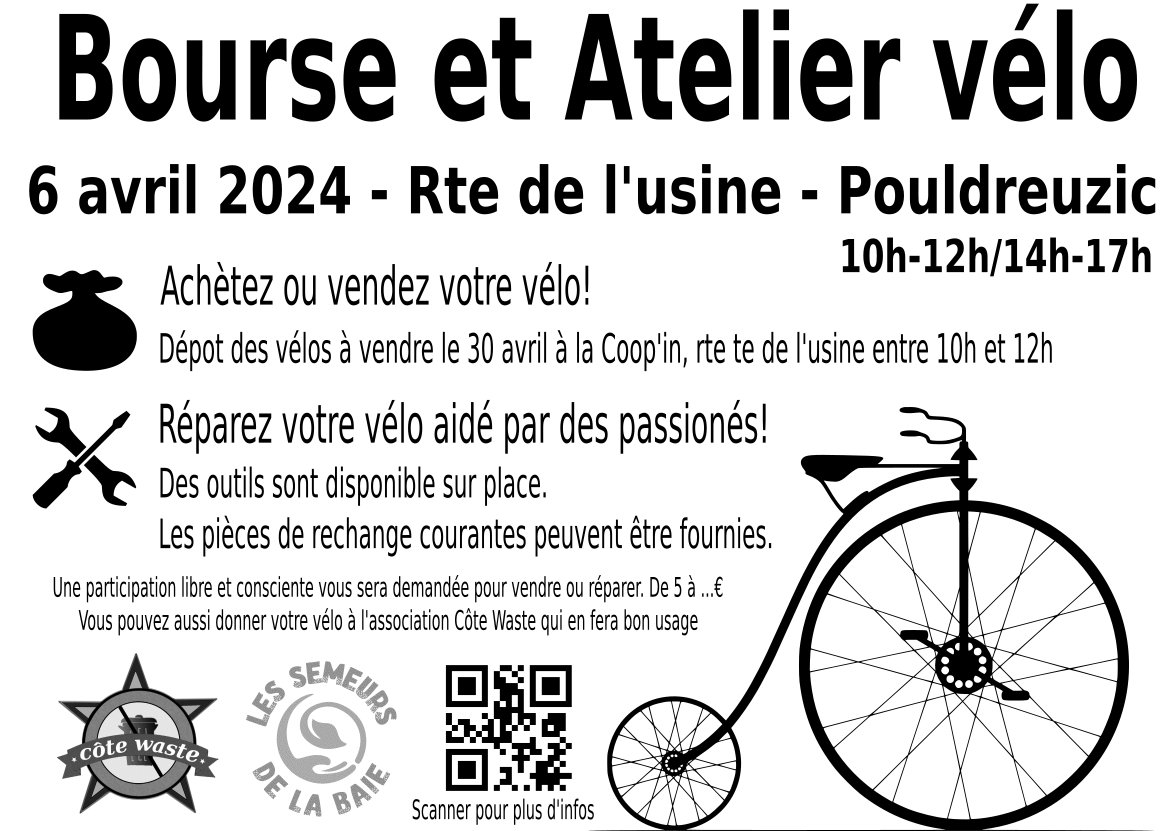
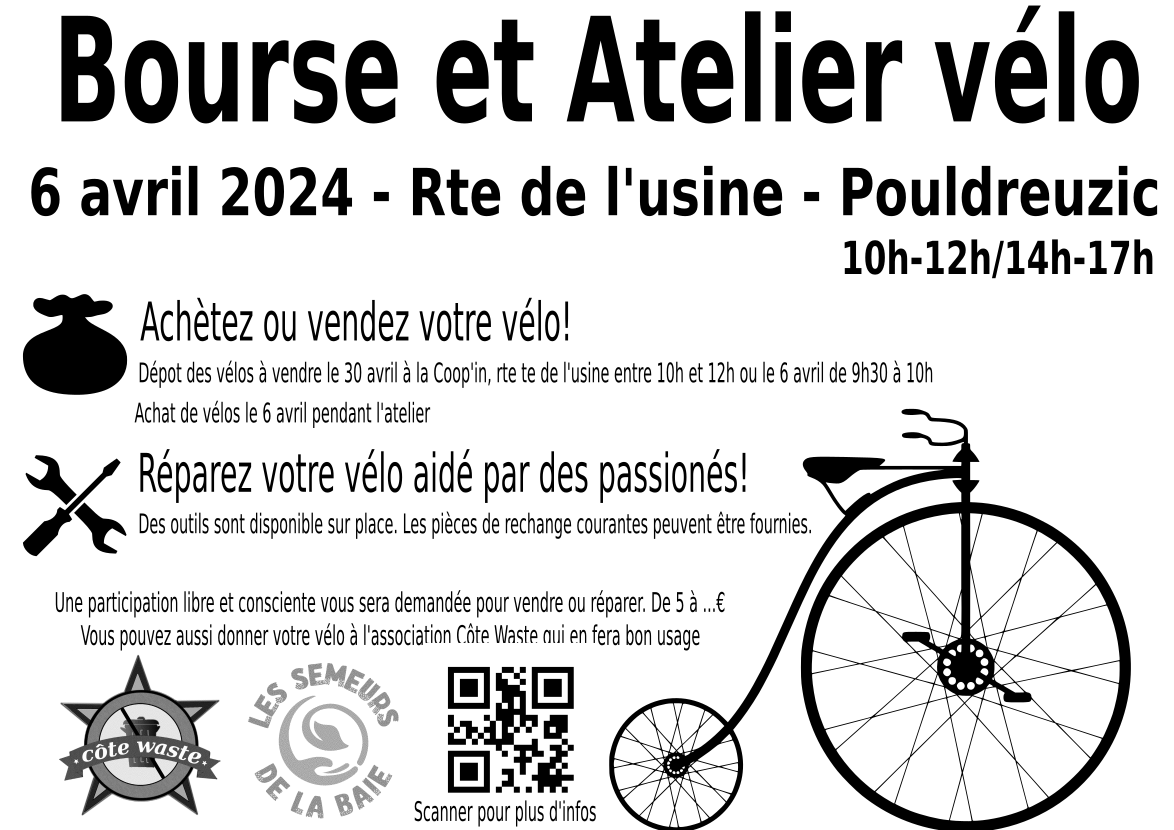
index

diff --git a/index.html b/index.html
@@ -12,13 +12,14 @@
           <img src="./affichette_a3.png" />
         </div>
 
+        <div class="container fs-2">
+          <p>&nbsp;</p>
+        <p class="fs-1">
 
-        <p>
-Les associations Côte Waste et Les Semeurs de la Baie organiseent une bourse et un atelier vélo le 6 avril.
+Les associations Côte Waste et Les Semeurs de la Baie organiseent une bourse et un atelier vélo le 6 avril route de l'usine à Pouldreuzic.
 
 </p><p>
-
-Vous pouvez y vendre votre vélo. Les vélos à vendre sont à déposer le 31 mars de 10h à midi  (éventuellement le 6 avril avant 10h) dans les locaux de la Coop'in, route de l'usine à Pouldreuzic. Le vélo doit être en "bon" état. Les vélos non fiable ne pourront être accepté
+Vous pouvez y vendre votre vélo. Les vélos à vendre sont à déposer le 31 mars de 10h à midi  (éventuellement le 6 avril avant 10h) dans les locaux de la Coop'in, route de l'usine à Pouldreuzic. Le vélo doit être en "bon" état. Les vélos non fiable ne pourront être accepté.
 
 </p><p>
 Le 6 avril de 10h à 17h, vous pourrez:
@@ -27,17 +28,25 @@ Le 6 avril de 10h à 17h, vous pourrez:
 - acheter un vélo d'occasion. Entre les vélos déposés la semaine passée et ceux de l'association Côte Waste de nombreux vélos seront à vendre.
 
 </p><p>
-- réparer votre vélo. Les membres de l'association Côte Waste vous assisterons pour entretenir et réparer votre vélo. Il sera possible d'acheter sur place les pièces les plus courante (cable de frein,...). 
+- réparer votre vélo à l'abris sous un barnum. Les membres de l'association Côte Waste vous assisterons pour entretenir et réparer votre vélo. Il sera possible d'acheter sur place les pièces les plus courante (cable de frein,...). 
 
 </p><p>
 Une participation libre et consciente vous sera demander pour participer. Cette participation vas de 5€ à 20€.
 
 
+ 
+
+
+
         </p>
+          <p>&nbsp;</p>
+        </div>
 
 
         <div class="text-center">
           <img src="./participation.jpg" />
         </div>
+</p><p>
+
     </body>
 </html>
